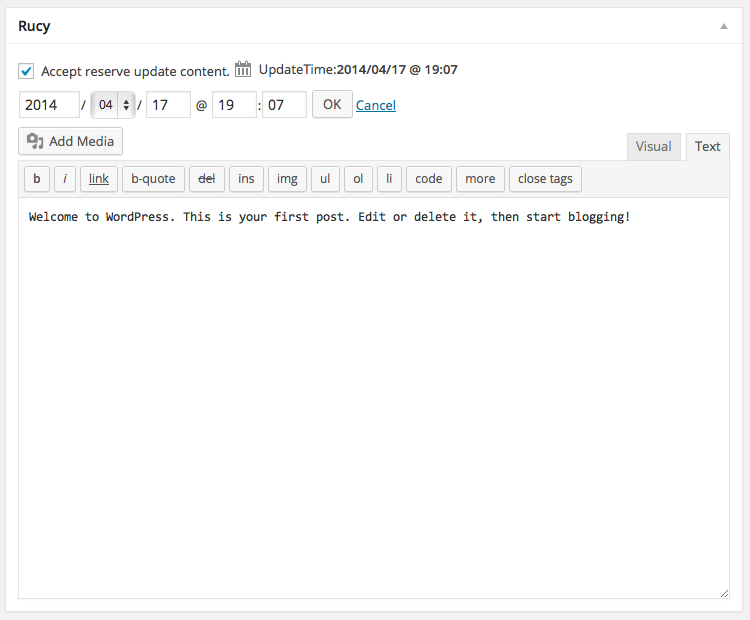
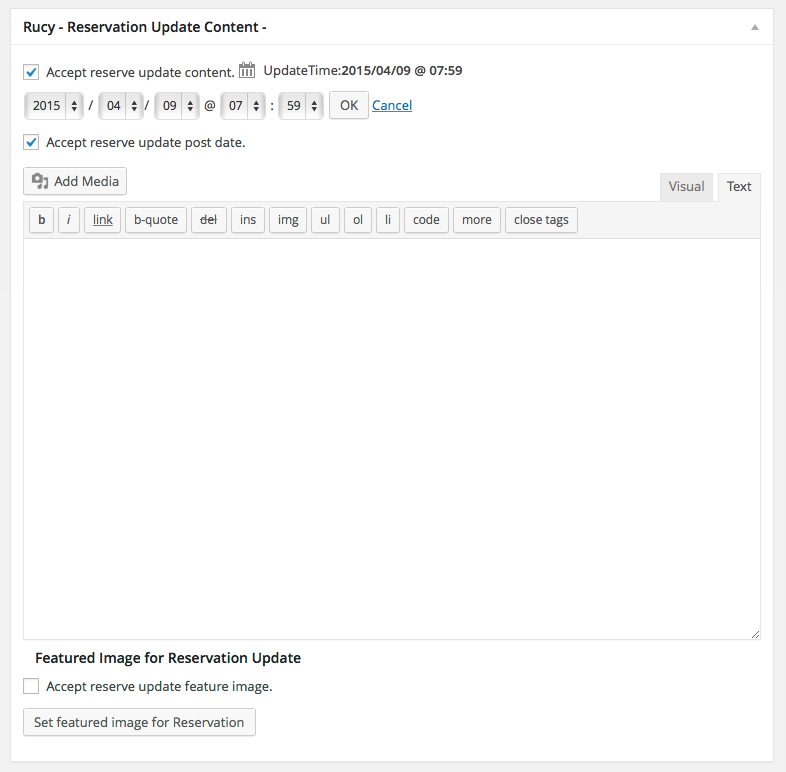
add screen shot fixed other

diff --git a/rucy.php b/rucy.php
@@ -3,7 +3,7 @@
  * Plugin Name: Rucy
  * Plugin URI: https://github.com/gips/rucy
  * Description: Reservation Update (Published) Content.
- * Version: 0.2.0
+ * Version: 0.3.0
  * Author: Nita
  * License: GPLv2 or later
  * Text Domain: rucy
@@ -22,9 +22,9 @@ function load_rc_jscss()
     global $hook_suffix;
     if(in_array($hook_suffix, array('post.php','post-new.php',)))
     {
-        wp_register_style('rucy.css', RC_PLUGIN_URL . '/css/rucy.css',array(),'0.0.1');
+        wp_register_style('rucy.css', RC_PLUGIN_URL . '/css/rucy.css',array(),'0.1.0');
         wp_enqueue_style('rucy.css');
-        wp_register_script('rucy.js', RC_PLUGIN_URL . '/js/rucy.js', array('jquery'), '0.0.1');
+        wp_register_script('rucy.js', RC_PLUGIN_URL . '/js/rucy.js', array('jquery'), '0.1.0');
         wp_enqueue_script('rucy.js');
     }
 }
@@ -229,7 +229,6 @@ function add_rucy_metabox_inside()
     <input type="checkbox" name="<?php echo $reserv_accept_feature_name; ?>" value="1" <?php echo ($reserv_accept_feature == "1") ? "checked" : ""; ?>> <?php _e('Accept reserve update feature image.', RC_TXT_DOMAIN); ?>
 </label>
 <div class="rc_feature_image_uploader">
-<!--<p><a href="media-upload.php?type=image&TB_iframe=1&width=753&height=522&post_id=<?php echo $post->ID ?>" class="thickbox<?php echo ($reserv_feature_image != '') ? ' has_image' : ''; ?>" id="rc_feature_image_upload" title="<?php _e('Set featured image Reservation', RC_TXT_DOMAIN) ?>"><?php echo ($reserv_feature_image != '') ? $reserv_feature_image : __('Set featured image for Reservation', RC_TXT_DOMAIN); ?></a></p>-->
 <p><button id="rc_feature_image_upload" class="button rc-feature-uploader-button <?php echo ($reserv_feature_image != '') ? ' has_image' : ''; ?>"><?php  _e('Set featured image for Reservation', RC_TXT_DOMAIN); ?></button></p>
 
 <div class="rc-feature-image-uploader__ctrl">
@@ -341,10 +340,12 @@ function update_rc_reserved_content($post_id)
             update_rc_post_thumbnail($post_id, $rc_metas['feature_img']);
         }
         remove_filter('content_save_pre', 'wp_filter_post_kses');
+        remove_filter('content_filtered_save_pre', 'wp_filter_post_kses');
         add_filter('content_save_pre', 'rc_content_allow_iframe');
         $upp = wp_update_post($updates,true);
         remove_filter('content_save_pre', 'rc_content_allow_iframe');
         add_filter('content_save_pre', 'wp_filter_post_kses');
+        add_filter('content_filtered_save_pre', 'wp_filter_post_kses');
     }
     $dels = get_rc_metas();
     foreach ($dels as $key => $del)
